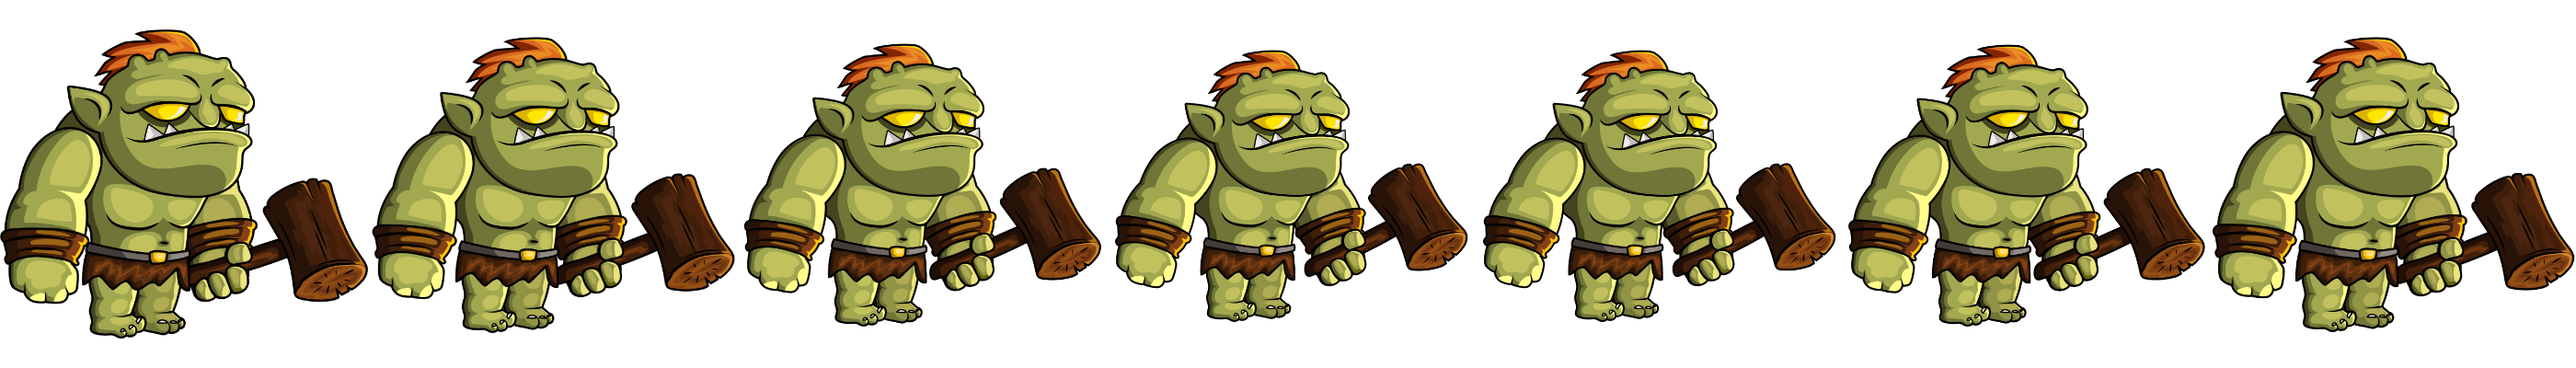
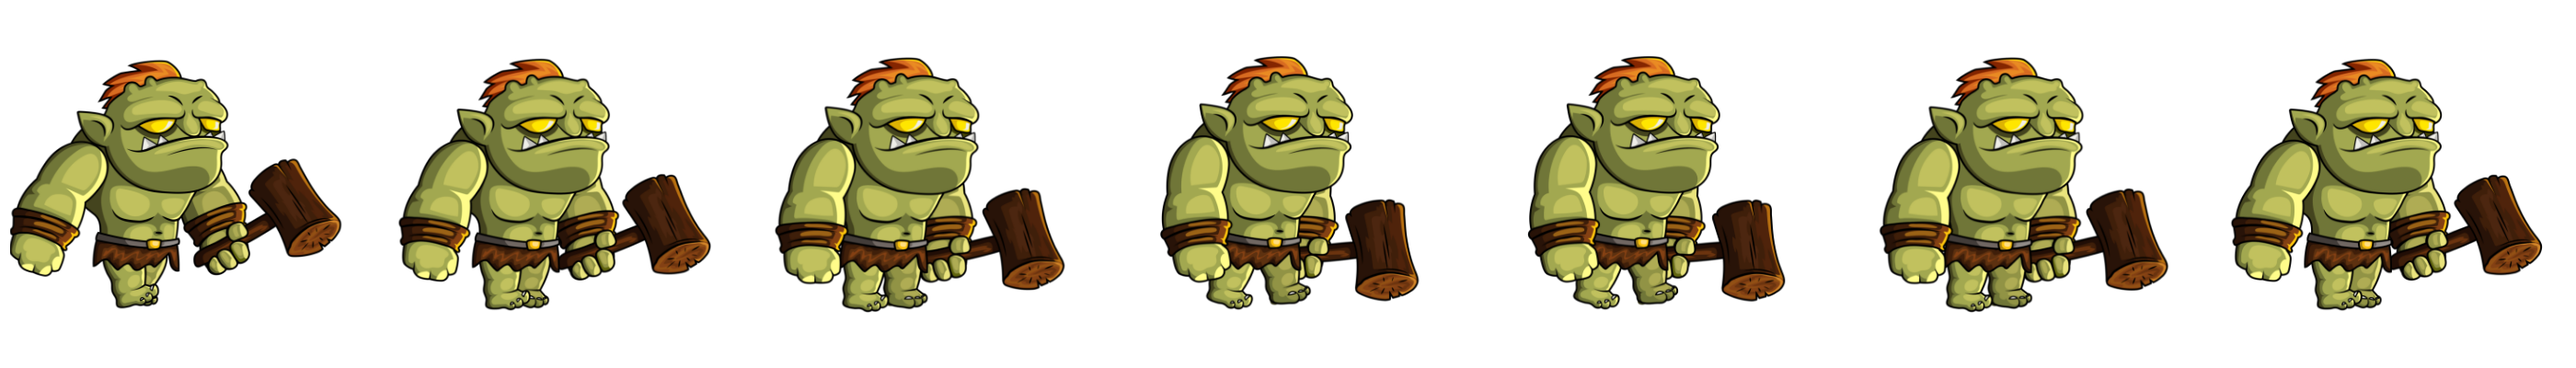
--- Auto-Git Commit ---

diff --git a/utils/drawMonster.js b/utils/drawMonster.js
@@ -19,7 +19,7 @@ export class DrawMonster {
     }
 
     drawMonsterImage(ctx, shift, frameWidth, frameHeight) {
-        drawImage(ctx, this.monsterOption.platform_number, 90, 370, 200, 70, null);
-        ctx.drawImage(gameImages[this.imageName]['image'], shift, 0, frameWidth, frameHeight, 35, 220, frameWidth, frameHeight);
+        drawImage(ctx, this.monsterOption.platform_number, 80, 370, 200, 70, null);
+        ctx.drawImage(gameImages[this.imageName]['image'], shift, 0, frameWidth, frameHeight, 15, 80, frameWidth, frameHeight);
     }
 }

diff --git a/utils/monsterAction.js b/utils/monsterAction.js
@@ -16,7 +16,7 @@ export let drawedMonster = null;
 export let shift = 0;
 export const frameWidth = 400;
 export const frameHeight = 400;
-export const totalFrames = 4;
+export const totalFrames = 6;
 export let currentFrame = 0;
 
 export const buttonPlacement = [
